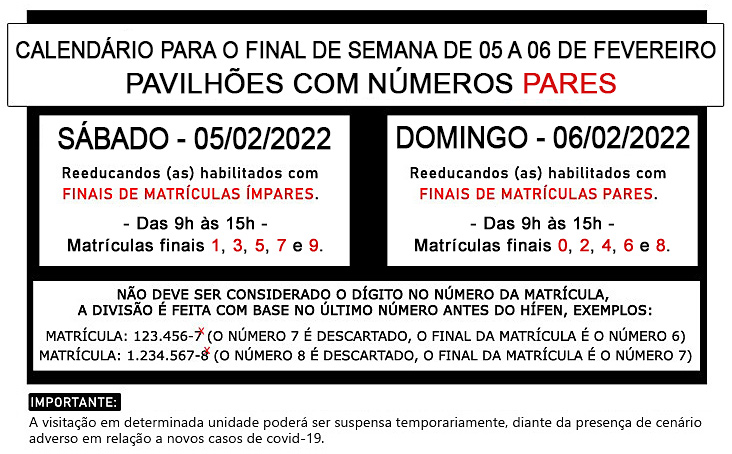
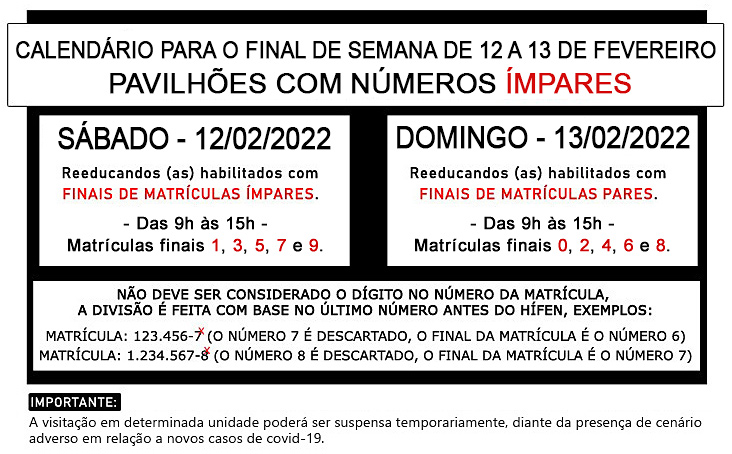
atualização calendário

diff --git a/calendario.html b/calendario.html
@@ -29,7 +29,7 @@
       <section>
         <h2>Calendário de Visitação</h2>
         <img src="imagens/calendario.jpg" alt="Calendário de Visitação">
-        <p style="text-align: center;">Atualizado dia 03/02/2022</p>
+        <p style="text-align: center;">Atualizado dia 09/02/2022</p>
       </section>
     </main>
 </body>
